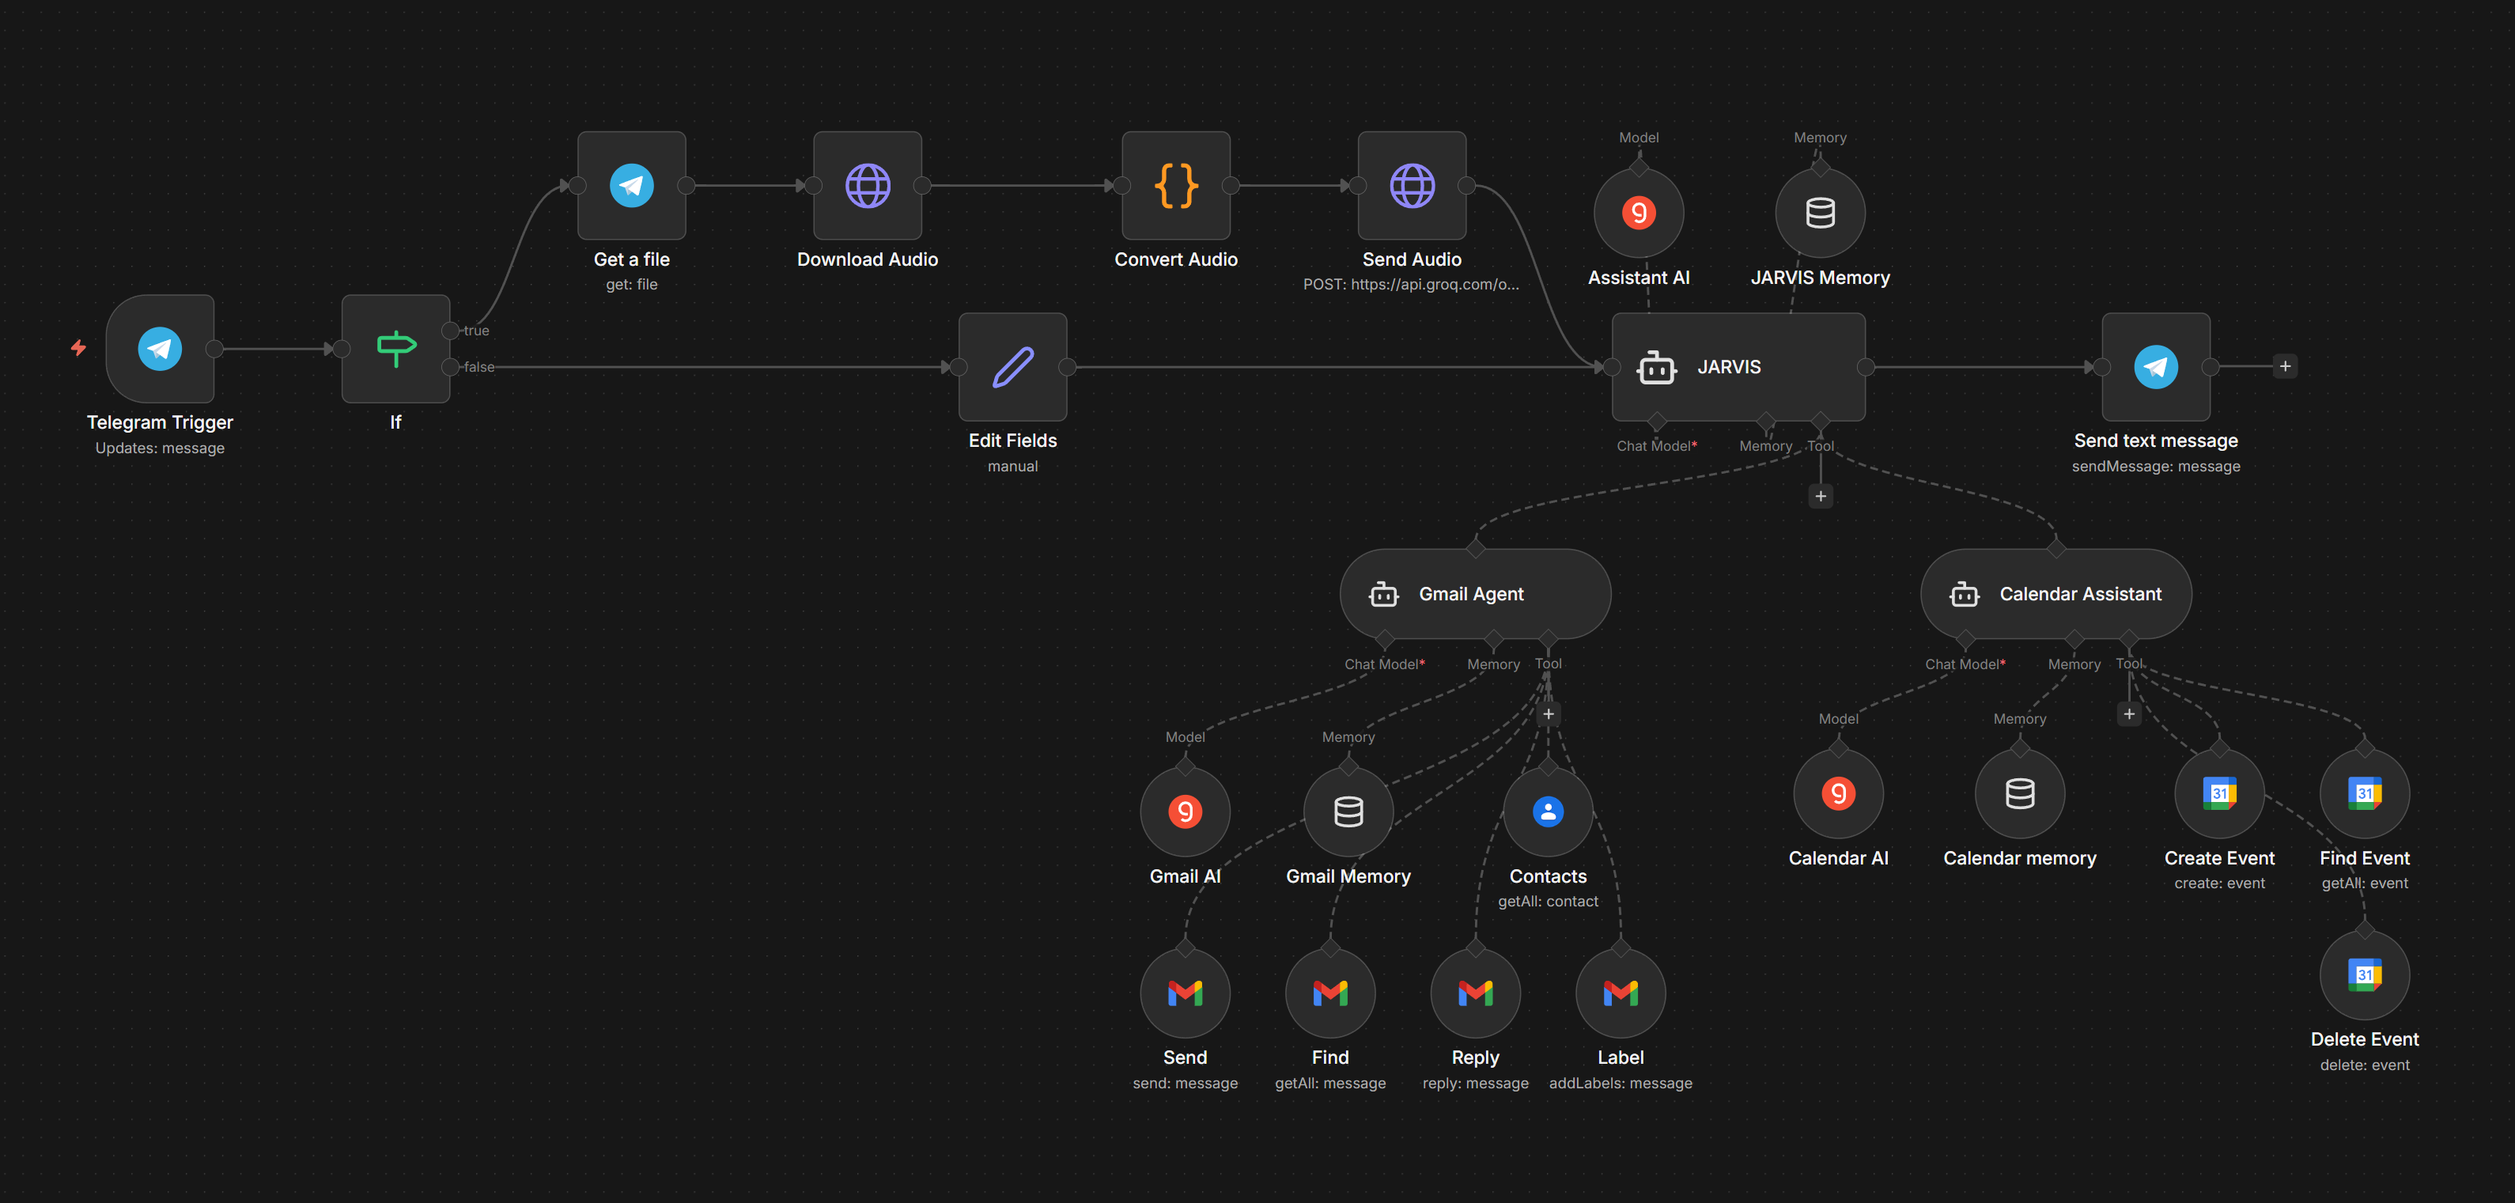
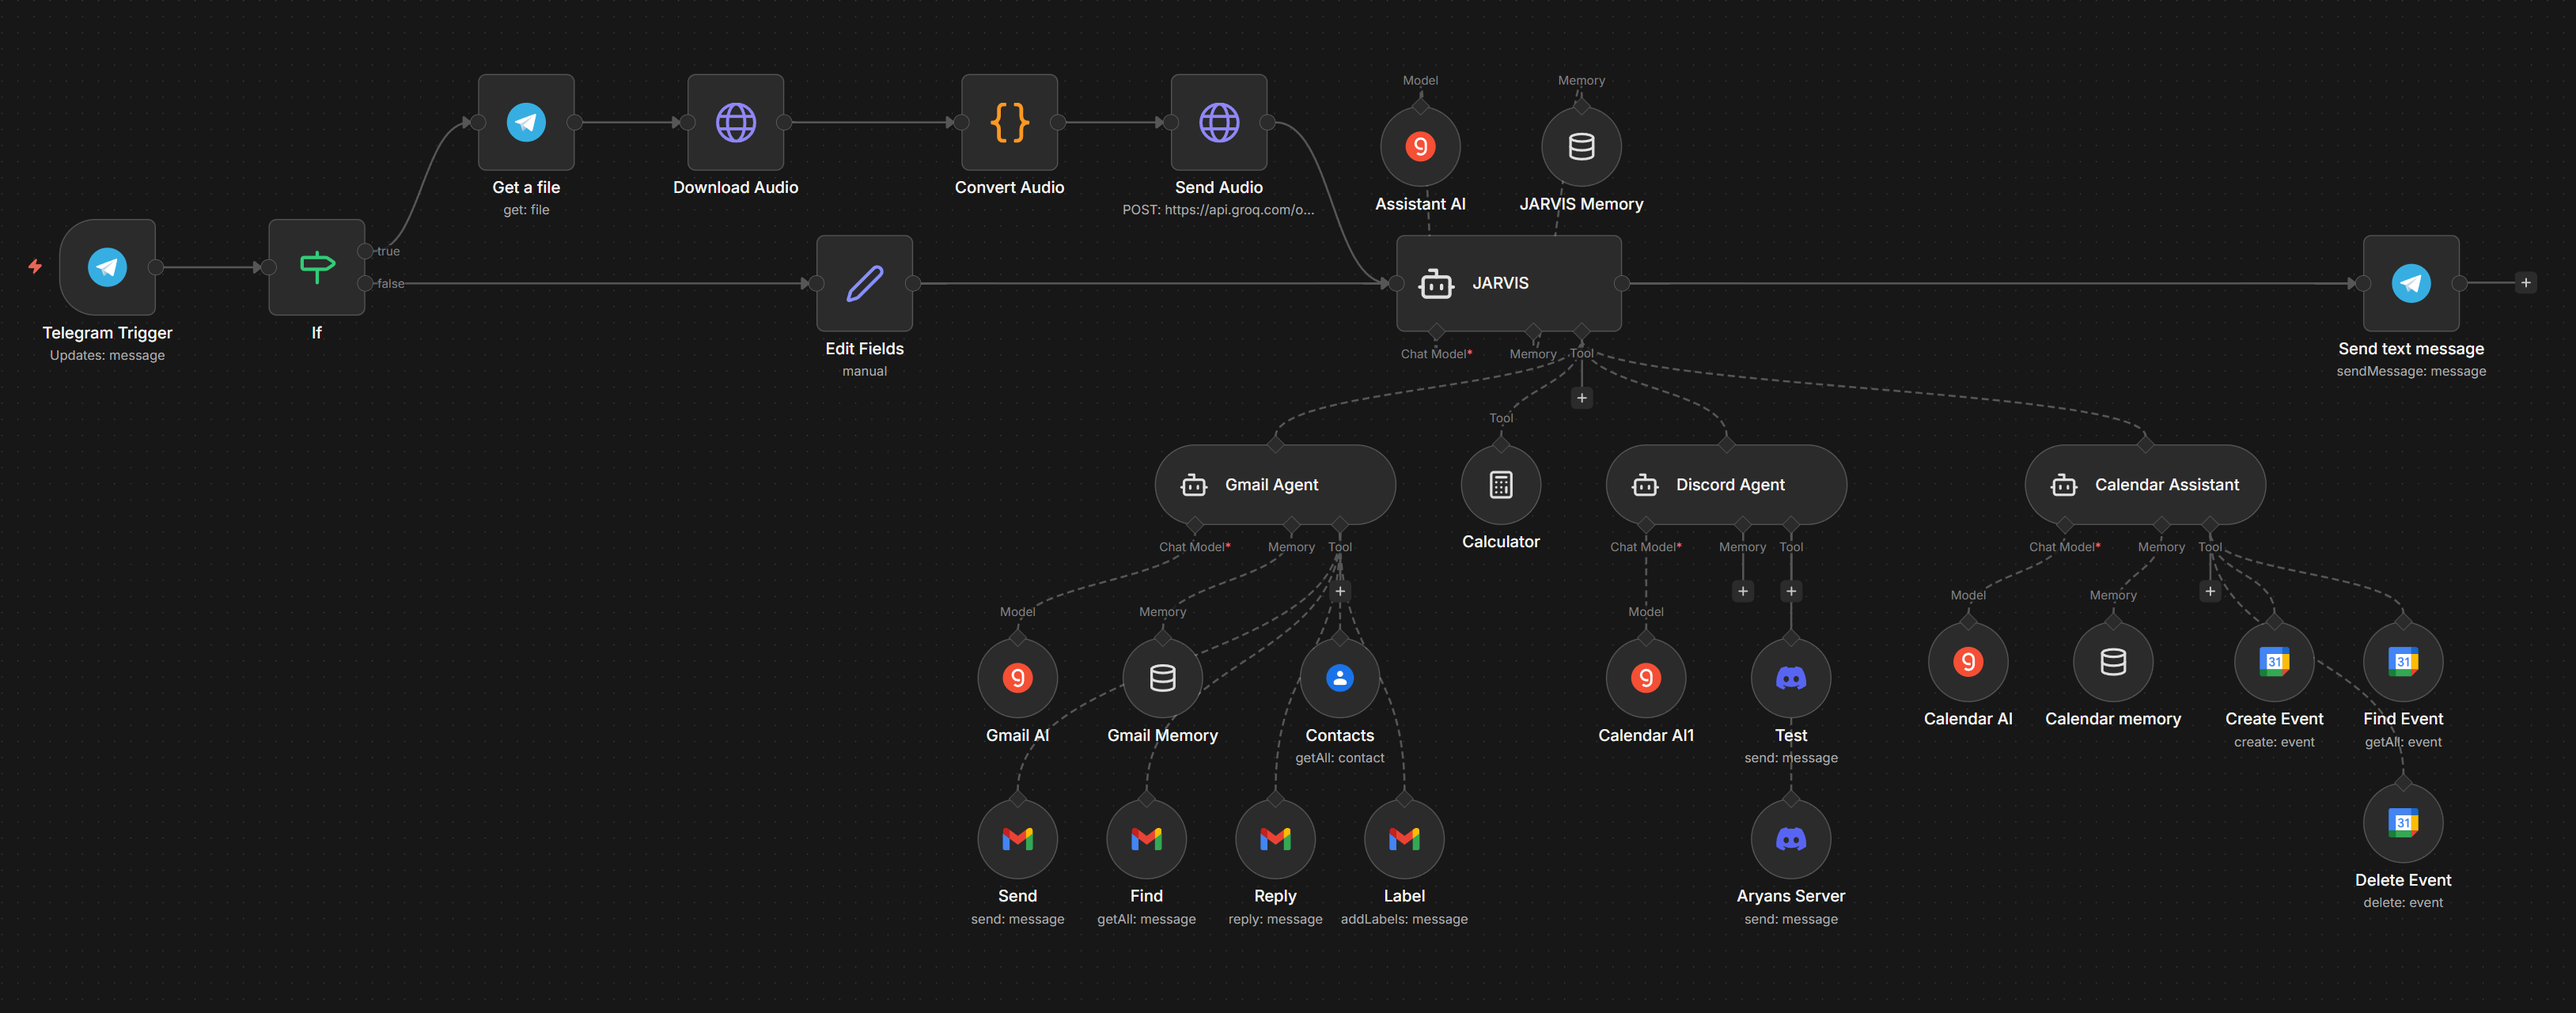
JARVIS discord intergration

diff --git a/README.md b/README.md
@@ -170,6 +170,7 @@ Gmail Trigger (poll every minute) → Email Categoriser (AI) → Switch (7 categ
 - 🎙 Whisper AI for voice-to-text transcription
 - 📧 Gmail mastery (send, reply, label, find emails)
 - 📅 Google Calendar domination (create, find, delete events)
+- 💬 Discord messaging integration
 - 🧠 Memory-enhanced conversation context
 - 🎯 Intelligent task delegation
 - 🚀 Multi-agent orchestration system
@@ -272,6 +273,169 @@ JARVIS: *Transcribes voice, replies to email with professional response*
 - **OAuth Providers:** Gmail, Google Calendar, Google Contacts
 
 **Note:** If you're ever stuck in a cave with a box of scraps and need help, this workflow isn't guaranteed to help. But it will definitely help you manage your emails and schedule. That's something, right? 😄
+
+---
+
+## 💬 Discord Bot Setup
+
+JARVIS supports Discord messaging, allowing you to receive notifications and interact with your AI assistant directly on Discord.
+
+### Creating a Discord Bot
+
+1. **Discord Developer Portal:**
+   - Go to [discord.com/developers/applications](https://discord.com/developers/applications)
+   - Click **"New Application"**
+   - Give your bot a name and click **Create**
+
+2. **Bot Configuration:**
+   - On your application page, click **"Bot"** in the left sidebar
+   - Click **"Reset Token"** (or copy your existing token if you have one)
+   - Enable these features:
+     - ✅ **Message Content Intent** (Required for reading messages)
+     - ✅ **Presence Intent**
+     - ✅ **Server Members Intent**
+   - Click **"Reset Token"** and copy the token to a safe location
+
+3. **Adding Bot to Your Server:**
+   - Click **"OAuth2"** in the left sidebar
+   - Select **"URL Generator"**
+   - Under **Scopes**, check these boxes:
+     - ✅ **bot**
+     - ✅ **applications.commands**
+   - Under **Bot Permissions**, select these permissions:
+     - ✅ **Read Messages/View Channels**
+     - ✅ **Send Messages**
+     - ✅ **Embed Links**
+     - ✅ **Attach Files**
+     - ✅ **Use Slash Commands**
+     - ✅ **Read Message History**
+     - ✅ **Add Reactions**
+   - Copy the generated URL and open it in your browser
+   - Select your server and click **"Authorize"**
+
+4. **Test Your Bot:**
+   - Use `/start` command to initiate conversation with JARVIS
+   - Or send a direct message if configured for DMs
+
+### Linking Discord to n8n
+
+1. **Get Your Discord Webhook URL:**
+   - Open your Discord server settings
+   - Go to **"Integrations"** → **"Webhooks"**
+   - Click **"New Webhook"**
+   - Give it a name and select the channel
+   - Copy the **Webhook URL**
+
+2. **n8n Configuration:**
+   - In your n8n workflow, use the **HTTP Request** node
+   - Method: `POST`
+   - URL: Your Discord webhook URL
+   - Headers: `Content-Type: application/json`
+   - Body: JSON payload (see examples below)
+
+3. **Discord Message Payloads:**
+
+**Simple Message:**
+```json
+{
+  "content": "Your message here"
+}
+```
+
+**Embed Message:**
+```json
+{
+  "embeds": [{
+    "title": "JARVIS Notification",
+    "description": "Here's your AI assistant's response",
+    "color": 3447003
+  }]
+}
+```
+
+**With Fields:**
+```json
+{
+  "content": "Job Match Found!",
+  "embeds": [{
+    "title": "New Job Opportunity",
+    "fields": [
+      {
+        "name": "Company",
+        "value": "TechCorp",
+        "inline": true
+      },
+      {
+        "name": "Score",
+        "value": "4.5/5",
+        "inline": true
+      }
+    ]
+  }]
+}
+```
+
+4. **Integration Examples:**
+
+**Send Job Alert:**
+```javascript
+{
+  "embeds": [{
+    "title": "🎯 New Job Match!",
+    "description": "Found a perfect match for you!",
+    "color": 0x00ff00,
+    "fields": [
+      {
+        "name": "Role",
+        "value": "{{ $json.role }}",
+        "inline": true
+      },
+      {
+        "name": "Score",
+        "value": "{{ $json.score }}/5",
+        "inline": true
+      },
+      {
+        "name": "Company",
+        "value": "{{ $json.company }}",
+        "inline": true
+      }
+    ],
+    "url": "{{ $json.url }}"
+  }]
+}
+```
+
+**Calendar Reminder:**
+```javascript
+{
+  "content": "🔔 Meeting Reminder",
+  "embeds": [{
+    "title": "Upcoming Event",
+    "description": "{{ $json.title }} in 15 minutes",
+    "color": 0xffa500,
+    "fields": [
+      {
+        "name": "Time",
+        "value": "{{ $json.time }}",
+        "inline": true
+      },
+      {
+        "name": "Location",
+        "value": "{{ $json.location }}",
+        "inline": true
+      }
+    ]
+  }]
+}
+```
+
+5. **Error Handling:**
+   - If Discord messages aren't sending, verify:
+     - Webhook URL is correct
+     - Bot has necessary permissions in the channel
+     - Message content intent is enabled in Discord Developer Portal
+     - Payload format matches Discord's API requirements
 
 ---
 
